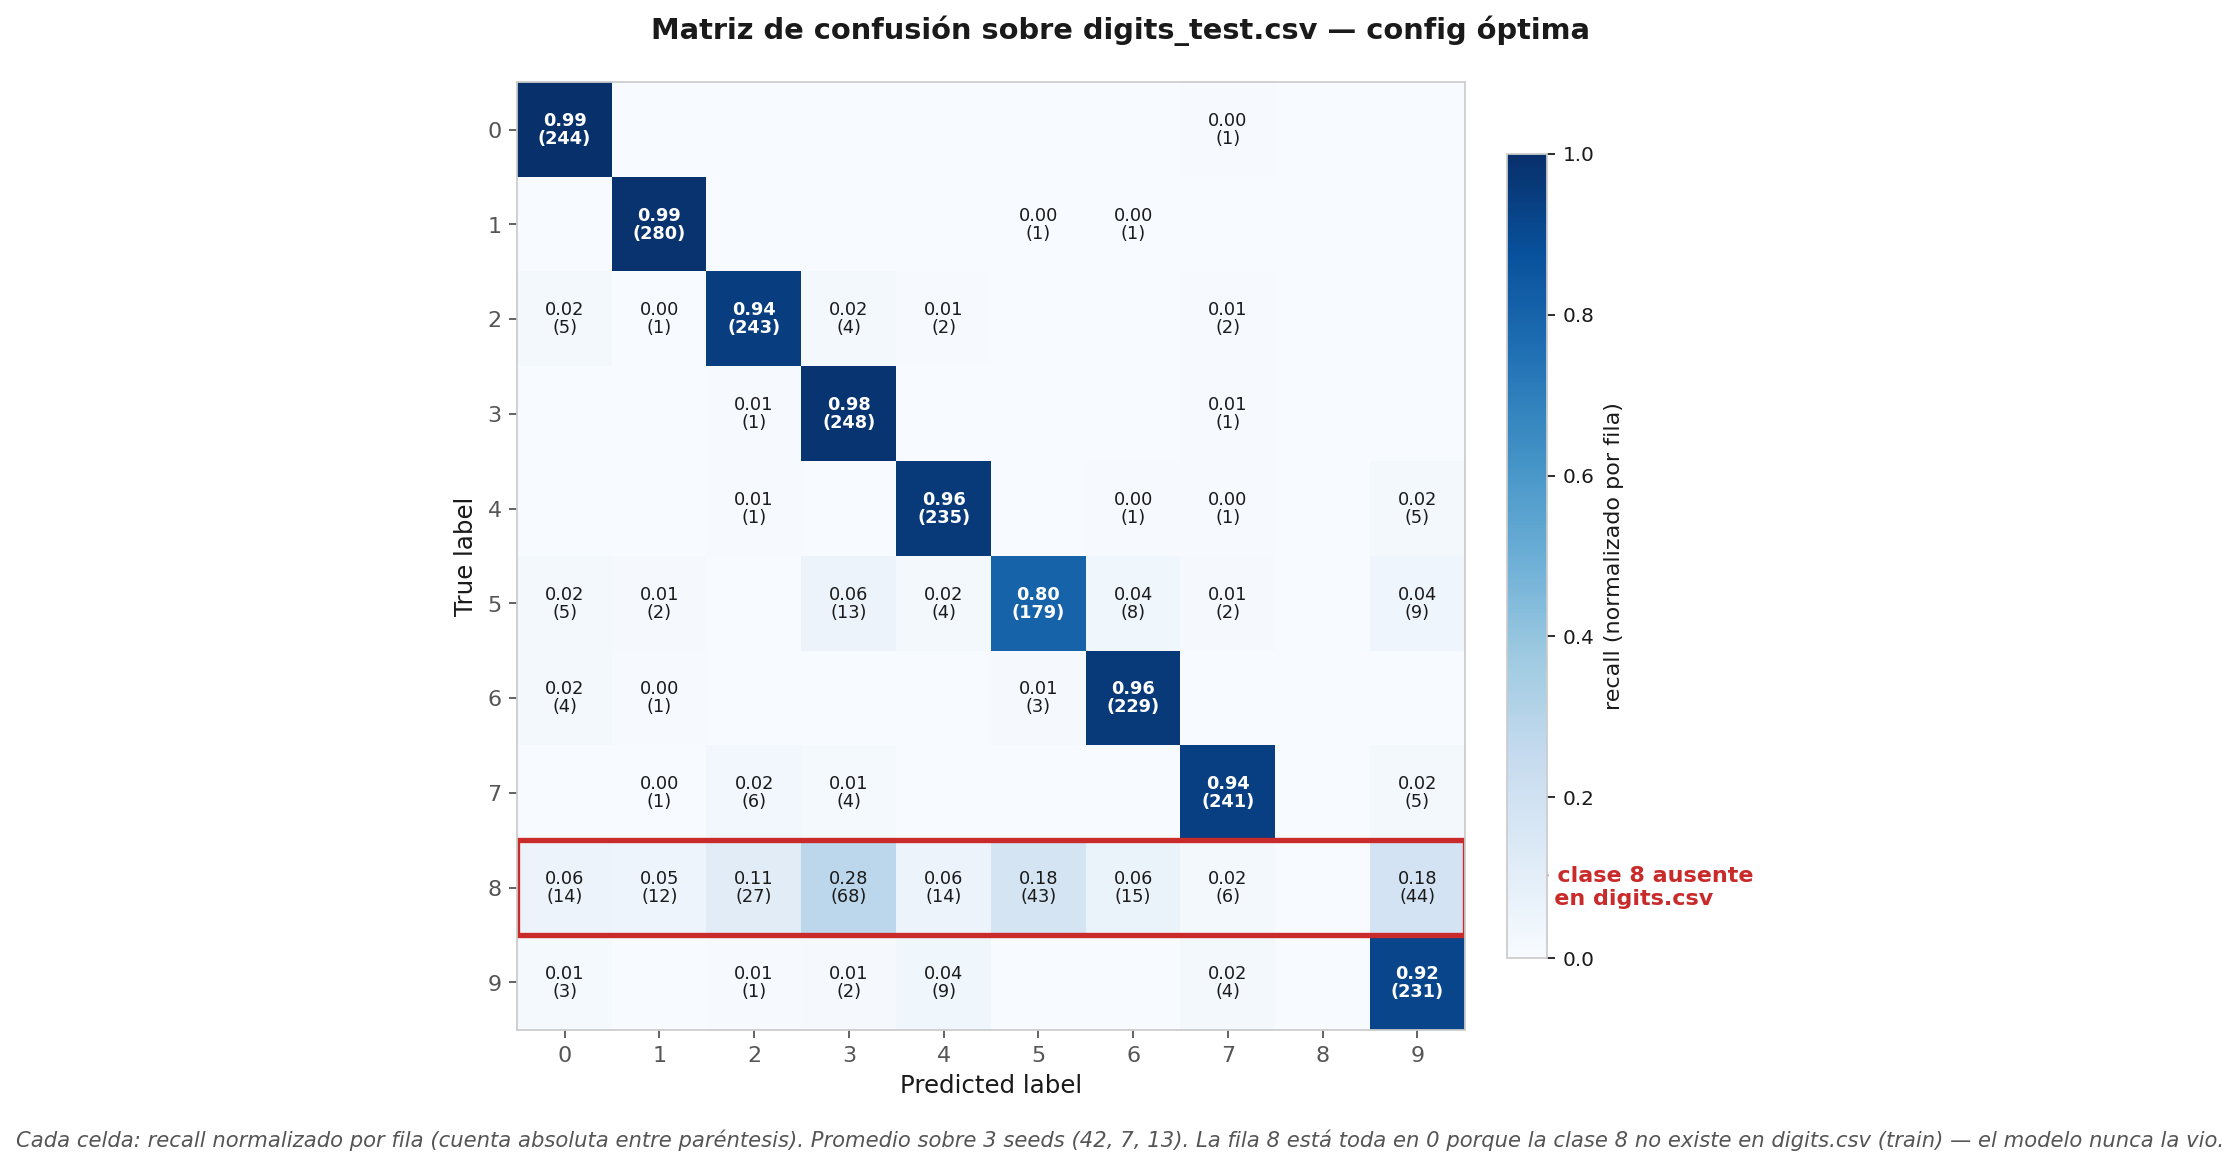
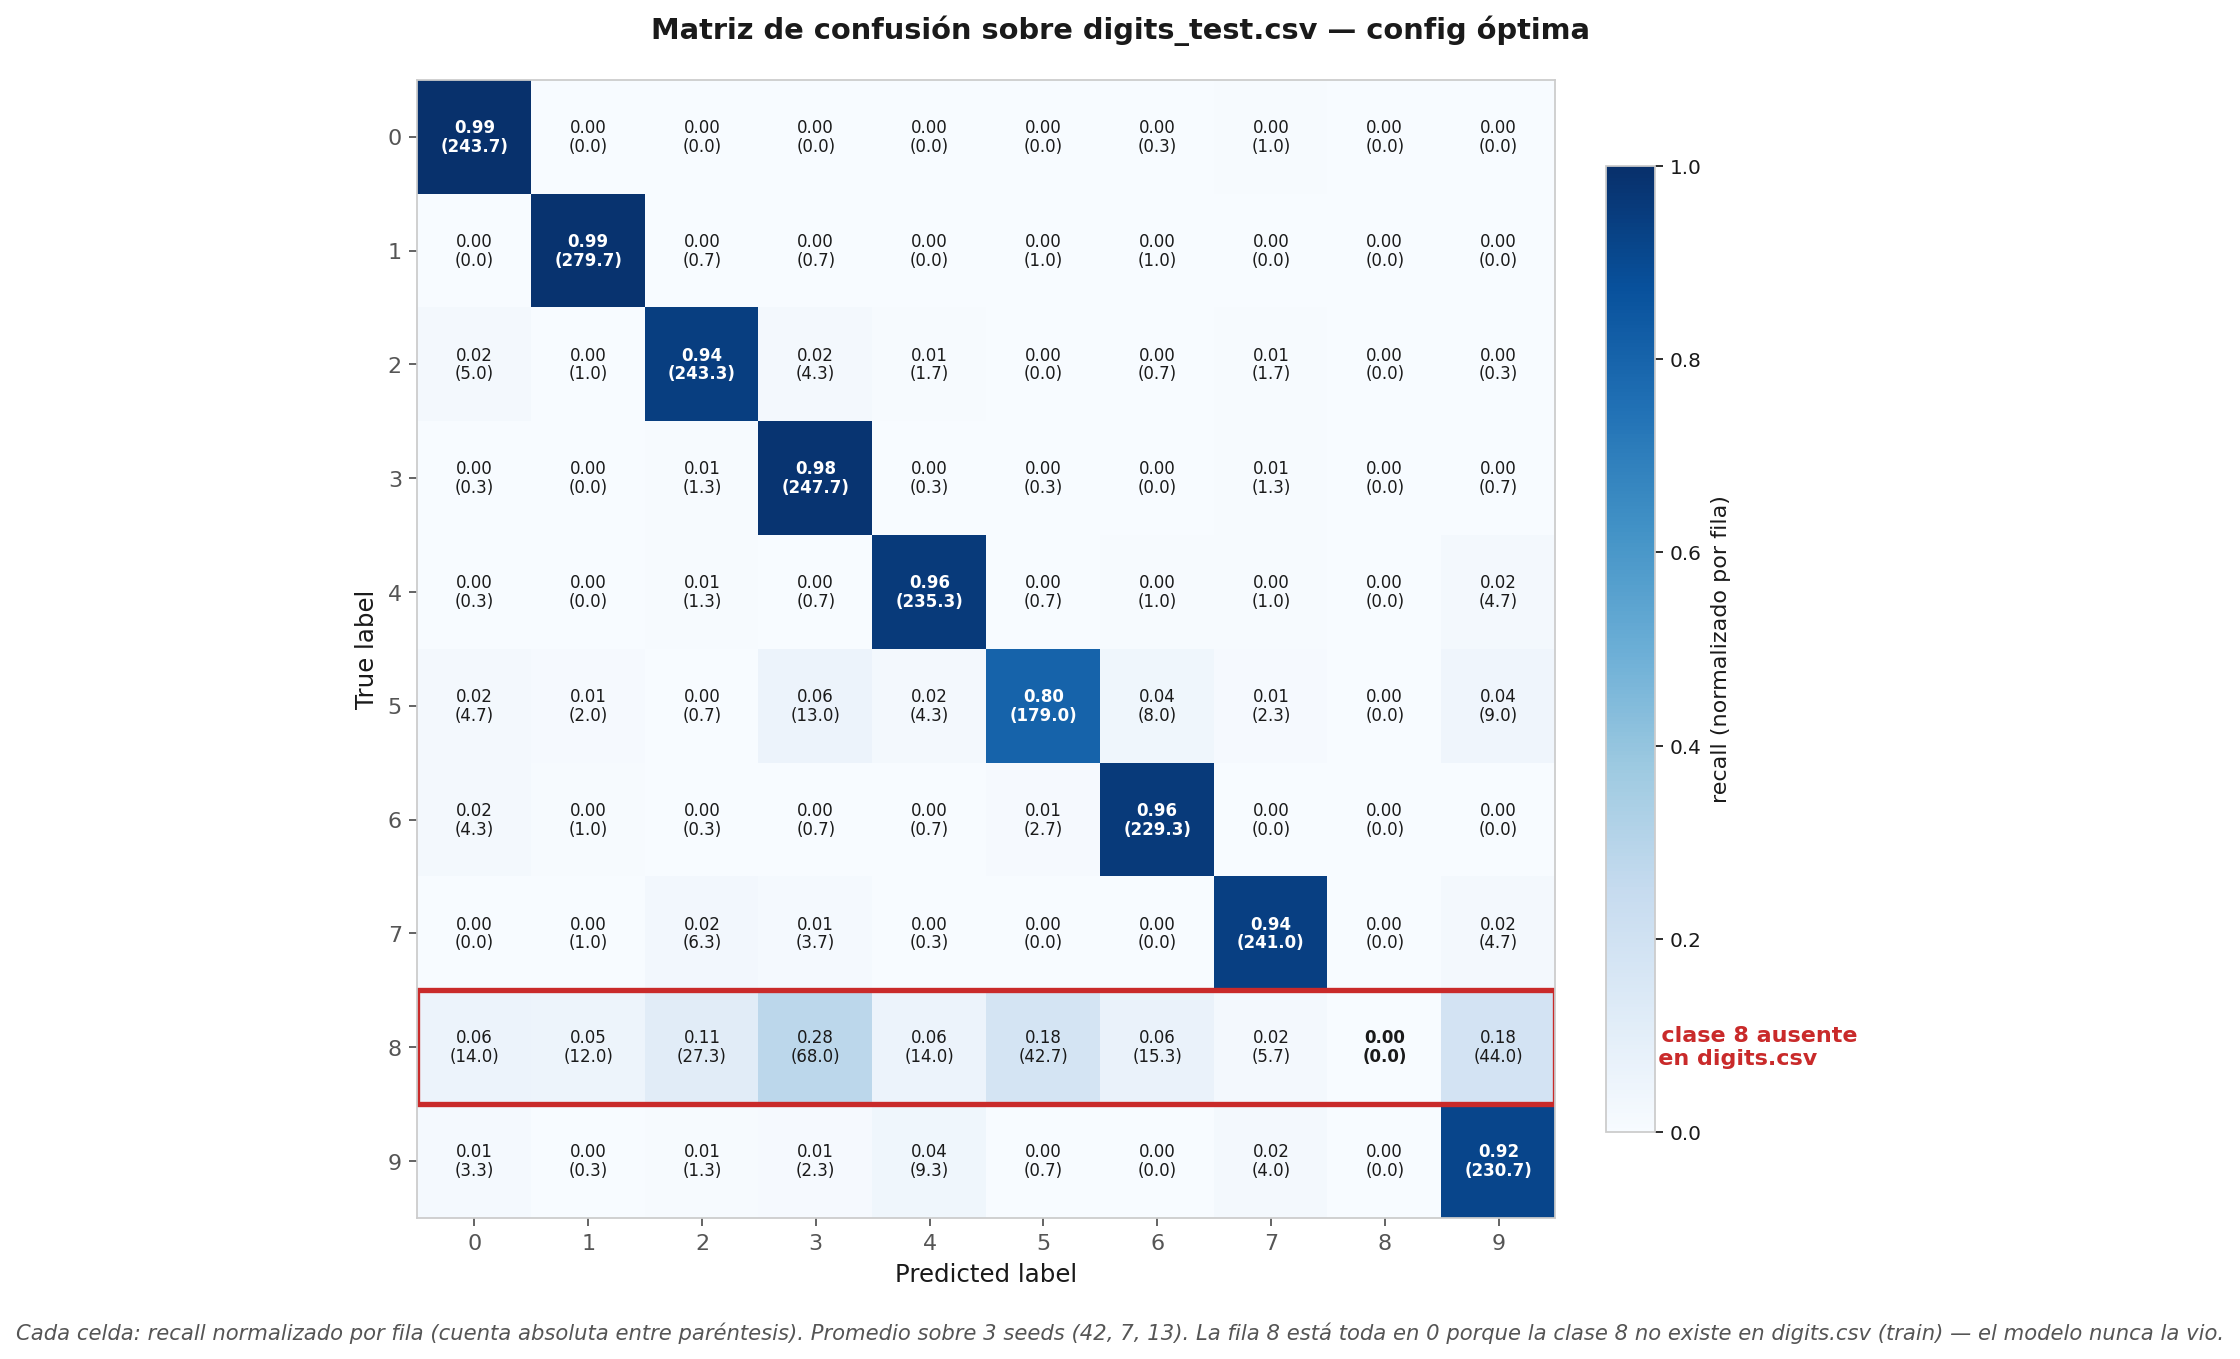
ej2: matriz de confusion test con valores en TODAS las celdas (incluidas 0s)

diff --git a/ejercicio2_experimentacion/scripts/cross_v1/analyze_optimal_generalization.py b/ejercicio2_experimentacion/scripts/cross_v1/analyze_optimal_generalization.py
@@ -54,23 +54,22 @@ def aggregate_test() -> tuple[pd.DataFrame, np.ndarray, list[np.ndarray]]:
 
 
 def plot_confusion_matrix(cm_mean: np.ndarray) -> None:
-    fig, ax = plt.subplots(figsize=(8.2, 7.0), facecolor=BG)
+    fig, ax = plt.subplots(figsize=(9.5, 8.2), facecolor=BG)
     ax.set_facecolor(BG)
-    norm_cm = cm_mean / cm_mean.sum(axis=1, keepdims=True)
-    norm_cm = np.nan_to_num(norm_cm)
+    row_totals = cm_mean.sum(axis=1, keepdims=True)
+    safe_totals = np.where(row_totals == 0, 1, row_totals)
+    norm_cm = cm_mean / safe_totals
     im = ax.imshow(norm_cm, cmap="Blues", vmin=0, vmax=1, aspect="equal")
     for i in range(10):
         for j in range(10):
             v_norm = norm_cm[i, j]
-            v_abs = cm_mean[i, j]
-            if v_norm < 0.001 and v_abs < 0.5:
-                continue
+            v_abs  = cm_mean[i, j]
             color = "white" if v_norm > 0.55 else TEXT
-            txt = f"{v_norm:.2f}\n({v_abs:.0f})" if v_abs >= 1 else ""
-            if txt:
-                ax.text(j, i, txt, ha="center", va="center",
-                        color=color, fontsize=8, linespacing=1.0,
-                        fontweight="bold" if i == j else "normal")
+            # Mostrar TODAS las celdas (incluidas las de valor 0)
+            txt = f"{v_norm:.2f}\n({v_abs:.1f})"
+            ax.text(j, i, txt, ha="center", va="center",
+                    color=color, fontsize=7.5, linespacing=1.05,
+                    fontweight="bold" if i == j else "normal")
     ax.set_xticks(range(10)); ax.set_xticklabels(range(10), color=TEXT)
     ax.set_yticks(range(10)); ax.set_yticklabels(range(10), color=TEXT)
     ax.set_xlabel("Predicted label", color=TEXT, fontsize=11)
